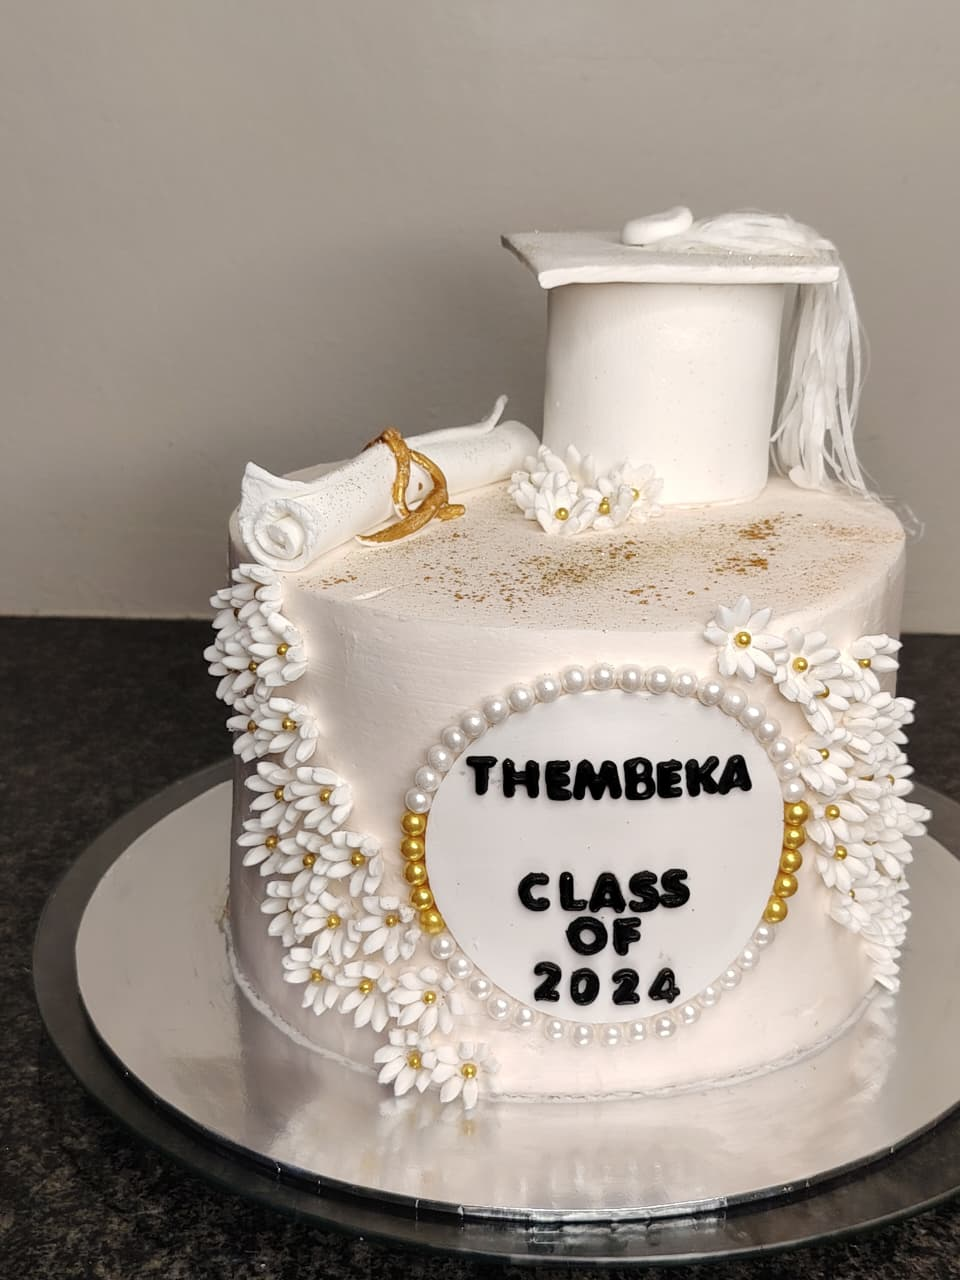
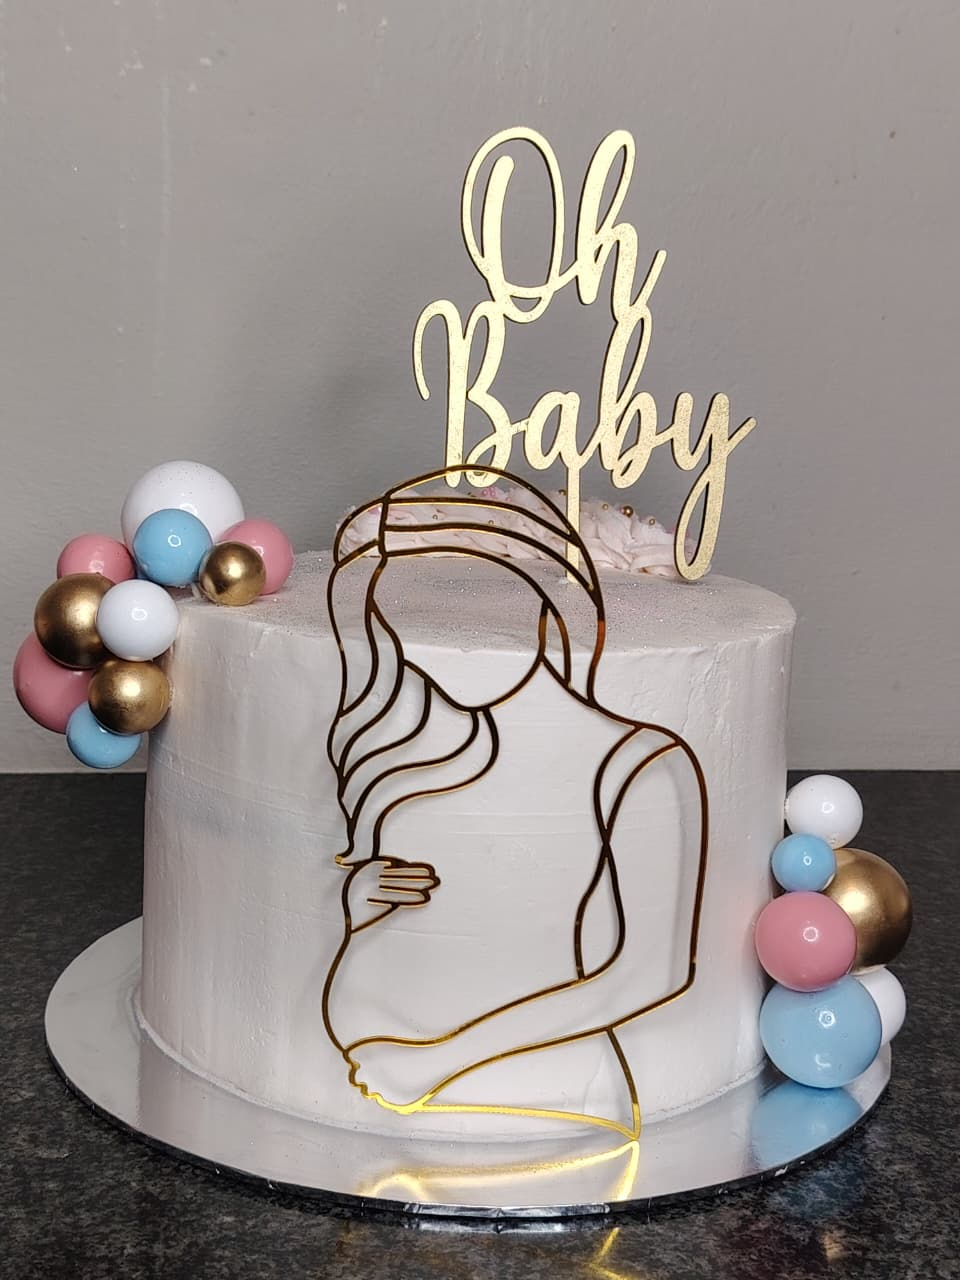
Update cake menu images

diff --git a/index.html b/index.html
@@ -205,8 +205,8 @@ The Cake Melts - Custom Cake Bakery Website
                     <div class="col-md-4 col-sm-6">
                          <!-- MENU THUMB -->
                          <div class="menu-thumb">
-                              <a href="cake_images/1.jpg" class="image-popup" title="Birthday Cakes">
-                                   <img src="cake_images/1.jpg" class="img-responsive" alt="Birthday Cakes">
+                              <a href="cake_images/1.jpeg" class="image-popup" title="Birthday Cakes">
+                                   <img src="cake_images/1.jpeg" class="img-responsive" alt="Birthday Cakes">
 
                                    <div class="menu-info">
                                         <div class="menu-item">
@@ -224,8 +224,8 @@ The Cake Melts - Custom Cake Bakery Website
                     <div class="col-md-4 col-sm-6">
                          <!-- MENU THUMB -->
                          <div class="menu-thumb">
-                              <a href="cake_images/2.jpg" class="image-popup" title="Character Cakes">
-                                   <img src="cake_images/2.jpg" class="img-responsive" alt="Character Cakes">
+                              <a href="cake_images/2.jpeg" class="image-popup" title="Character Cakes">
+                                   <img src="cake_images/2.jpeg" class="img-responsive" alt="Character Cakes">
 
                                    <div class="menu-info">
                                         <div class="menu-item">
@@ -243,8 +243,8 @@ The Cake Melts - Custom Cake Bakery Website
                     <div class="col-md-4 col-sm-6">
                          <!-- MENU THUMB -->
                          <div class="menu-thumb">
-                              <a href="cake_images/3.jpg" class="image-popup" title="Bento Cakes">
-                                   <img src="cake_images/3.jpg" class="img-responsive" alt="Bento Cakes">
+                              <a href="cake_images/3.jpeg" class="image-popup" title="Bento Cakes">
+                                   <img src="cake_images/3.jpeg" class="img-responsive" alt="Bento Cakes">
 
                                    <div class="menu-info">
                                         <div class="menu-item">
@@ -281,8 +281,8 @@ The Cake Melts - Custom Cake Bakery Website
                     <div class="col-md-4 col-sm-6">
                          <!-- MENU THUMB -->
                          <div class="menu-thumb">
-                              <a href="cake_images/5.jpg" class="image-popup" title="Wedding Cakes">
-                                   <img src="cake_images/5.jpg" class="img-responsive" alt="Wedding Cakes">
+                              <a href="cake_images/5.jpeg" class="image-popup" title="Wedding Cakes">
+                                   <img src="cake_images/5.jpeg" class="img-responsive" alt="Wedding Cakes">
 
                                    <div class="menu-info">
                                         <div class="menu-item">
@@ -300,8 +300,8 @@ The Cake Melts - Custom Cake Bakery Website
                     <div class="col-md-4 col-sm-6">
                          <!-- MENU THUMB -->
                          <div class="menu-thumb">
-                              <a href="cake_images/6.jpg" class="image-popup" title="Cupcakes">
-                                   <img src="cake_images/6.jpg" class="img-responsive" alt="Cupcakes">
+                              <a href="cake_images/6.jpeg" class="image-popup" title="Cupcakes">
+                                   <img src="cake_images/6.jpeg" class="img-responsive" alt="Cupcakes">
 
                                    <div class="menu-info">
                                         <div class="menu-item">
